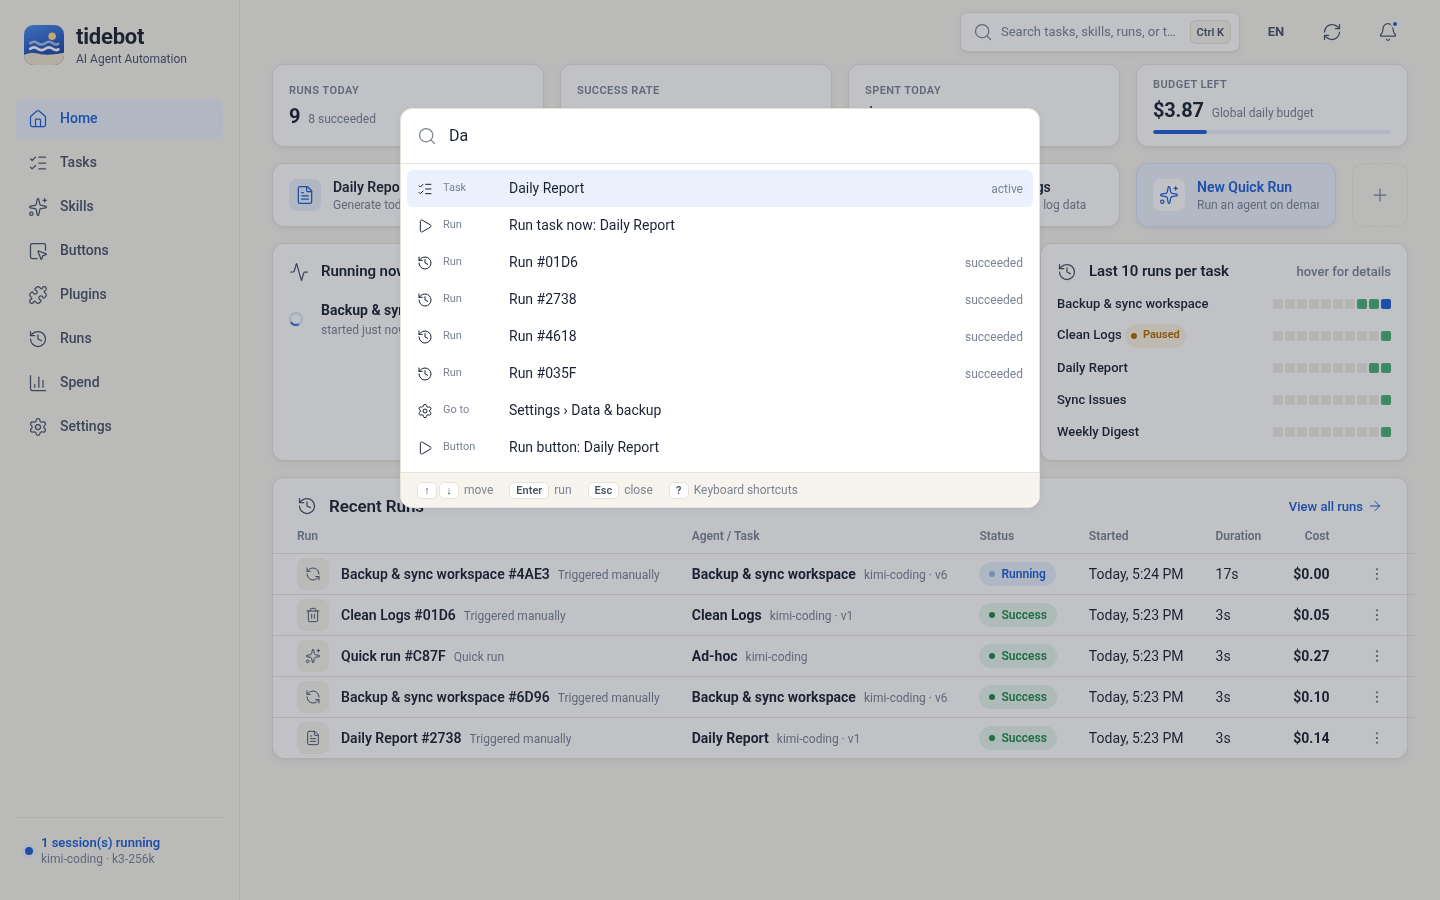
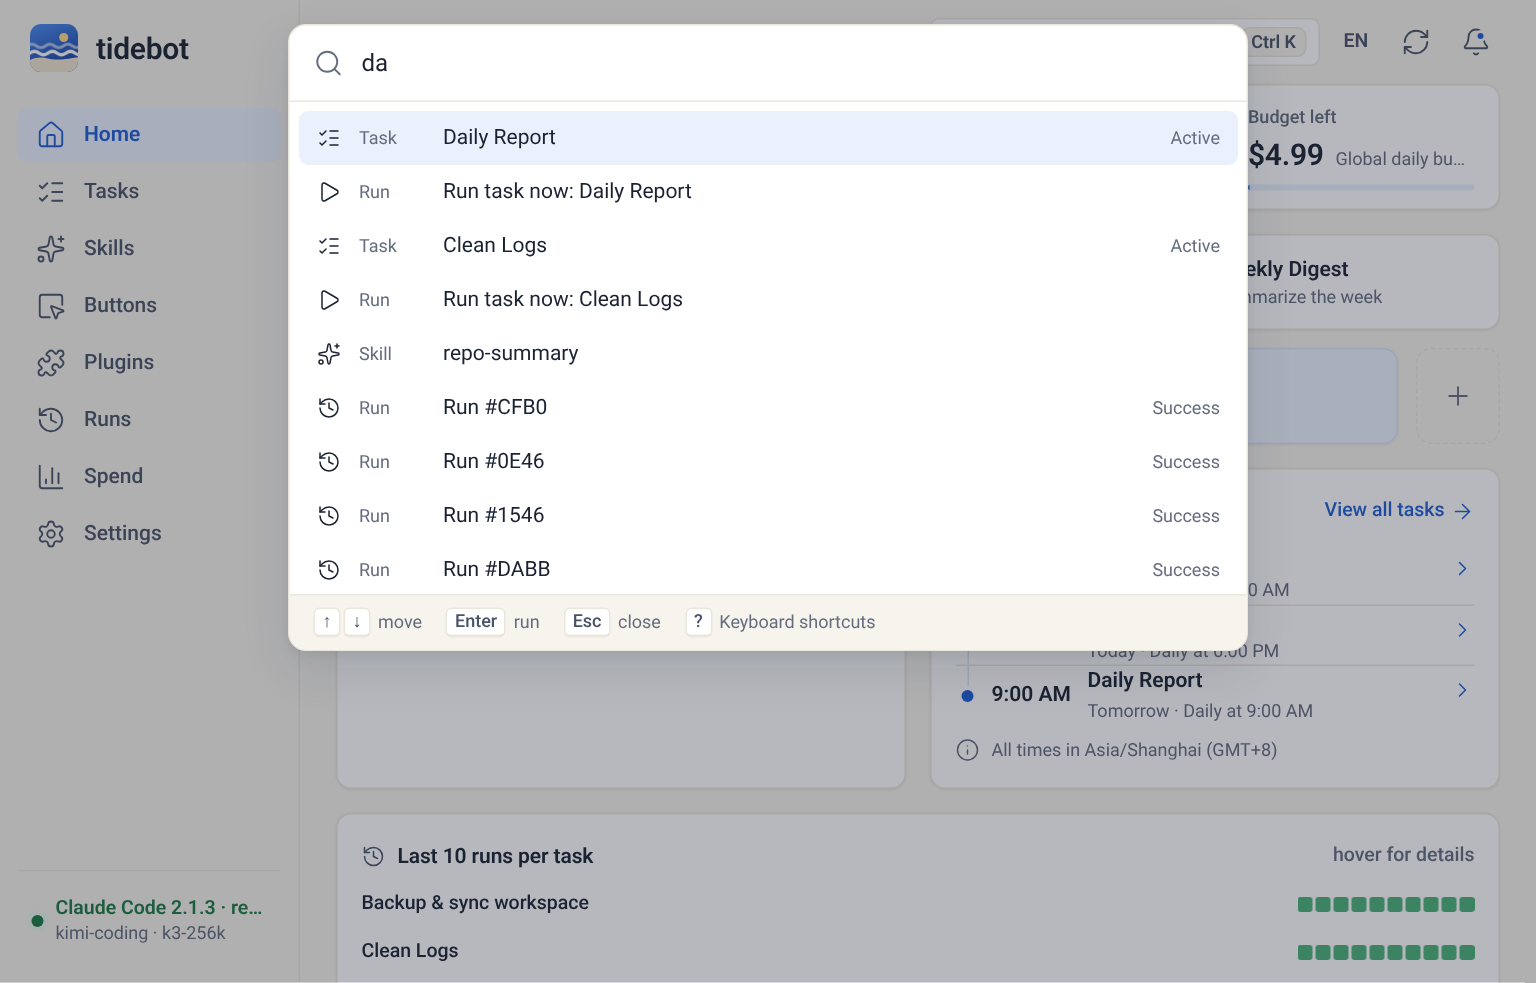
v0.1.7 发布说明；README 更新功能介绍、占用实测、安装与更新说明、架构图，按 1024×655 重拍截图

diff --git a/README.en.md b/README.en.md
@@ -14,13 +14,15 @@ So tidebot does a few simple things:
 - Broke something? Click an older version and you're back. History never goes away.
 - Daily spend has a cap. When it's hit, things stop. No burning a month of credits overnight.
 
-It's not a platform and doesn't want to become one. Single user, runs locally, one binary, about 13 MB of memory when idle.
+It's not a platform and doesn't want to become one. Single user, runs locally, one binary, about 30 MB of memory when idle.
 
 ![Home](docs/images/home.png)
 
 ## Screenshots
 
-Task detail. The middle column is a conversation with the task. What you say gets split into individual requirements, and nothing changes until you confirm. Items from the same message can be confirmed together as a single version; uncheck the ones you don't want.
+All screenshots are taken in a 1024×655 window, which is the size I actually keep it at on my Mac. The data comes from the demo script, not a real account.
+
+Task detail. The conversation with the task lives in the Requirements tab. What you say gets split into individual requirements, and nothing changes until you confirm. Items from the same message can be confirmed together as a single version; uncheck the ones you don't want.
 
 ![Task detail](docs/images/task-detail.png)
 
@@ -28,15 +30,27 @@ The version tree. Every confirmation is a new version. Rolling back just moves t
 
 <img src="docs/images/version-tree.png" width="320" alt="Version tree">
 
-Live run log, streamed over SSE. Secrets are masked before the log ever hits disk.
+Live run log. Output is pushed as soon as it's written, so new lines show up almost instantly. Copy, download and full screen sit in the title bar, a running run has a Stop button next to it, and a queued one can simply be taken out of the queue. Secrets are masked before the log ever hits disk.
 
 ![Live log](docs/images/run-live.png)
 
-Spend. The daily budget resets at midnight in your own timezone (not UTC). Going over pauses the task and records an event.
+A finished run can be rerun with one click. Quick runs can also be edited and rerun (press `e`), or saved as a scheduled task.
+
+![Run details](docs/images/run-detail.png)
+
+Quick run. Recent prompts show up as chips you can click, the provider you used last time is preselected, and Ctrl+Enter (⌘+Enter on a Mac) runs it. Unsent prompts are kept as a draft, so closing the dialog or reloading the page doesn't lose them.
+
+![Quick run](docs/images/quick-run.png)
+
+Spend. Every model is priced at its own rate; subscription plans count tokens, not money. The daily budget resets at midnight in your own timezone (not UTC). Going over pauses the task and records an event. The selected range can be exported as CSV.
 
 ![Spend](docs/images/spend.png)
 
-Skill versions and diffs. Compare any two versions. Rollback only moves the pointer here too, and you have 10 seconds to undo it. On the right is the optimizer: it only proposes candidates, and promoting one is always your click.
+The skill library. Every skill can be downloaded as a .zip and imported on another machine as is.
+
+![Skills](docs/images/skills.png)
+
+Skill versions and diffs. Compare any two versions. Rollback only moves the pointer here too, and you have 10 seconds to undo it. Any version can be downloaded on its own.
 
 ![Skill diff](docs/images/skill-diff.png)
 
@@ -44,7 +58,7 @@ Ctrl+K (⌘K on a Mac) opens a command palette. It searches tasks, skills and ru
 
 ![Command palette](docs/images/palette.png)
 
-Settings are split into General / Providers / Budgets / Security / Notifications / Data & backup / About, and every item has its own URL, e.g. `#/settings/security/2fa`. You can turn on two-factor sign-in there: scan, type one code, save the recovery codes. Nothing changes until a code checks out.
+Settings are split into General / Providers / Budgets / Price catalog / Security / Notifications / Network / Data & backup / About, and every item has its own URL, e.g. `#/settings/security/2fa`. You can turn on two-factor sign-in there: scan, type one code, save the recovery codes. Nothing changes until a code checks out.
 
 ![Settings](docs/images/settings.png)
 
@@ -60,21 +74,27 @@ Optional skill optimization (off by default). Three modes: off, suggest only, ca
 
 Buttons and plugins. A button is a one-click preset bound to a task or a prompt. The home page shows them in the order you set, by drag or Alt+arrow keys. When you install a plugin you tick its permissions one by one (high-risk ones start unticked), and you can revoke a single one later. Plugins with settings get a form; password-type fields can't be read back once saved.
 
-Cost caps. Daily limits per global / task / bucket (production, canary, optimization, assist). Checked before every run, with `--max-budget-usd` as a backstop during the run.
+Quick runs and reruns. If you don't want a task yet, hit "New quick run" on the home page, type a sentence and go. Not happy with the result? Rerun it as is, or edit the prompt and run again, and save it as a scheduled task once it's right. A running run can be stopped at any time, a queued one can be taken out of the queue, and the page shows where it is in line.
+
+Cost caps. Daily limits per global / task / bucket (production, canary, optimization, assist). Checked before every run, checked again when a queued run gets its slot (if the budget ran out while it waited, it's skipped), with `--max-budget-usd` as a backstop during the run. Usage is saved every 5 seconds while a run is going, so a crash doesn't lose the bill.
+
+Priced per model. Each run is priced from its actual token usage at that model's own rate, instead of applying Claude's prices to everything; subscription plans (like Kimi Coding Plan) just count tokens. The price list syncs itself weekly from a signed price catalog (source and last update live in Settings → Price catalog). The Spend page breaks things down by task, provider and model, and exports CSV.
+
+Data doesn't pile up. Settings → Data & backup shows how much space tidebot uses, lets you change how long logs and runs are kept, and previews what a clean-up would delete. You get a warning when the disk holding the data folder is running low.
 
 Any model provider. Anything with an Anthropic-compatible endpoint works. Built in: Anthropic, Kimi (including Coding Plan), DeepSeek, Zhipu GLM / Z.AI, Qwen DashScope, and the local magpie gateway. Keys are injected only into the `claude` child process environment. They never go into the database or the logs.
 
-Tiny footprint. Measured on a Linux x86_64 box (Go 1.24, `make build`):
+Small footprint. Measured on 2026-10-23 on a Linux x86_64 box (`go build -trimpath -ldflags="-s -w"`, i.e. `make build`; `scripts/measure.sh` reproduces it):
 
 | What | Number |
 |---|---|
-| `agentd` binary (stripped) | 11.5 MB |
-| `agentctl` binary | 3.1 MB |
-| Idle RSS, WebUI off | ~13 MB |
-| Idle RSS, WebUI on | ~13.3 MB |
-| After a few runs and a WebUI login | ~20 MB |
-| Peak during login (argon2id hash) | ~84 MB, released right after |
-| WebUI frontend (JS + CSS, gzipped) | ~25 KB, no CDN, no framework |
+| `agentd` binary (stripped) | 16.7 MB |
+| `agentctl` binary | 3.7 MB |
+| Idle RSS, WebUI off | ~27 MB |
+| Idle RSS, WebUI on | ~32 MB |
+| WebUI frontend (JS + CSS, gzipped) | ~128 KB, no CDN, no framework; cached by content hash, so a second visit downloads nothing |
+
+It has grown since the first versions (there's a lot more in it now). I'm still working on bringing memory back down.
 
 ## Architecture
 
@@ -90,18 +110,23 @@ flowchart LR
     Sched[Scheduler<br/>cron]
     Tasks[Tasks / amendments]
     Ver[Version store<br/>immutable versions + pointers]
-    Cost[Budget check<br/>resets at local midnight]
+    Cost[Budget check + per-model pricing<br/>resets at local midnight]
+    Queue[Queue / stop]
     Runner[Runner]
+    Upd[Update check<br/>price catalog sync]
     DB[(SQLite)]
   end
   Claude[claude -p<br/>stream-json]
   Provider[Model provider<br/>Anthropic / Kimi / DeepSeek / GLM / Qwen / magpie]
+  Rel[tidebot-releases<br/>signed latest.json / prices.json]
 
   CLI --> IPC
   Browser --> Web
   IPC --> Tasks
   Web --> Tasks
-  Sched --> Runner
+  Sched --> Queue
+  Web --> Queue
+  Queue --> Runner
   Tasks --> Ver
   Runner --> Cost
   Runner --> Claude
@@ -109,7 +134,9 @@ flowchart LR
   Tasks --> DB
   Ver --> DB
   Cost --> DB
-  Runner -- logs / SSE --> Web
+  Runner -- logs pushed on write / SSE --> Web
+  Upd -- daily / weekly --> Rel
+  Upd --> Cost
 ```
 
 ## Download
@@ -127,13 +154,13 @@ Prebuilt packages are on the [Releases](https://github.com/Zhengmingming1/tidebo
 Whichever you pick, you still need the `claude` CLI installed to actually run tasks.
 
 - **Server (agentd + agentctl)**: grab `tidebot-server_<version>_<os>_<arch>.tar.gz` (`.zip` on Windows) and put the two binaries on your PATH.
-  On Debian/Ubuntu there's a `.deb`: `sudo apt install ./tidebot-server_0.1.0_amd64.deb`, then `systemctl --user enable --now tidebot`.
+  On Debian/Ubuntu there's a `.deb`: `sudo apt install ./tidebot-server_0.1.7_amd64.deb`, then `systemctl --user enable --now tidebot`.
 - **Desktop app**: `.dmg` on macOS (universal, Intel and Apple silicon), `_setup.exe` on Windows (per-user, no admin),
   `.deb` or `.AppImage` on Linux (the AppImage doesn't bundle WebKitGTK; you need `libwebkit2gtk-4.1` on the system).
   Unsigned builds: on macOS right-click → Open the first time; Windows shows a SmartScreen prompt.
-- **Docker**: `docker pull ghcr.io/zhengmingming1/tidebot:0.1.0`. The image doesn't include the `claude` CLI; see [docs/release.md](docs/release.md) for adding it.
+- **Docker**: `docker pull ghcr.io/zhengmingming1/tidebot:0.1.7`. The image doesn't include the `claude` CLI; see [docs/release.md](docs/release.md) for adding it.
 
-Once installed, `agentctl call update.check` looks for a newer release and `update.apply` swaps the binaries in place after checking the sha256 (the old ones stay as `.prev`).
+Auto-update: the desktop app and the server check for a new version once a day (you can turn that off in Settings → About → Updates). By hand it's `agentctl update check` / `agentctl update apply`: the update manifest's signature and the package's sha256 are verified, the binaries are swapped in place (the old ones stay as `.prev`), and if the new version doesn't come up within 90 seconds it rolls back. Installs owned by a package manager, like `.deb` or Docker, only get a notification. If GitHub is slow or blocked where you are, Settings → Network has proxy and download mirror options.
 
 ## Quick start
 
@@ -198,7 +225,7 @@ webui_addr: 127.0.0.1:7420
 shutdown_grace: 5s           # how long quitting waits for running runs before stopping them
 ```
 
-Tasks, skills, buttons, plugins and triggers can all be created in the WebUI now. Drop a skill zip or folder on the import dialog; schedules come with presets (daily, weekdays, weekly) and show the next few runs in your timezone. The CLI below still works.
+Tasks, skills, buttons, plugins and triggers can all be created in the WebUI now. Drop a skill zip or folder on the import dialog; schedules come with presets (daily, weekdays, weekly) and show the next few runs in your timezone. When you create a task, the name and schedule get filled in from what you wrote and a daily budget is suggested; the add-provider form also understands a pasted Base URL or a block of env vars. If a dialog has unsaved changes, Esc or a click outside asks before throwing them away. The CLI below still works.
 
 ## CLI examples
 
@@ -224,8 +251,9 @@ agentctl skills pin --task <task_id> --skill <skill_id> --version <version_id>
 agentctl spend summary
 agentctl spend set-budget --scope global --max-usd 5
 
-# run once now
+# run once now; stop it (or drop it from the queue)
 agentctl tasks run --id <task_id>
+agentctl runs stop --id <run_id>
 ```
 
 CLI messages come in English and Chinese too. They follow your system locale, or set `TIDEBOT_LANG=en` / `TIDEBOT_LANG=zh-CN`.
@@ -236,6 +264,7 @@ CLI messages come in English and Chinese too. They follow your system locale, or
 Closing the window just hides it to the tray; scheduled tasks keep running. The tray menu, top to bottom: a problems section that only shows up when something is wrong (core not responding, today's budget used up, failures in the last hour), how many tasks are running, your first 5 buttons, "Pause all schedules", LAN access, open, quit.
 The icon has three states: idle, running, needs attention. If the core dies, the tray shows it within about 3 seconds.
 You get native notifications when a run finishes, fails, needs approval or hits the budget. The menu language follows the WebUI language setting, or the OS if you never set one.
+CSV exports, log and skill downloads go through the native Save dialog, with "Show in folder" afterwards; Settings → Data & backup can open the data folder directly. The browser tab icon gets a small badge, so you can see at a glance when something is running or just failed.
 
 ```bash
 scripts/build-desktop.sh linux        # needs Go 1.26, libgtk-3-dev, libwebkit2gtk-4.1-dev
@@ -251,11 +280,12 @@ This is a personal project maintained by one person, and it's early.
 
 Works today:
 
-- Scheduling, manual runs, concurrency limit, timeouts; retries with backoff, a breaker after 3 failures in a row, catch-up after downtime, overlap rules
+- Scheduling, manual runs, quick runs, concurrency limit, timeouts; stop a running run or drop a queued one; retries with backoff, a breaker after 3 failures in a row, catch-up after downtime, overlap rules; quitting lets running runs finish
+- Rerun, edit-and-rerun and save-as-task from the run page; duplicate a task; prompt drafts are saved automatically
 - Immutable task versions, rollback, version tree
 - Plain-language amendments: structured items, conflict detection, batch confirm; it offers to consolidate once items pile up
 - Skill import, versions, pinning, rollback; auto-optimization (off / suggest / canary), and a canary that does worse gets withdrawn automatically
-- Daily spend caps at global / task / bucket level, reset at local midnight
+- Daily spend caps at global / task / bucket level, reset at local midnight; per-model pricing with a weekly price catalog sync; spend export to CSV
 - Execution guard: a workspace per task, tool allow-lists, dangerous commands held until you confirm, external input wrapped as data
 - Plugins: separate processes speaking JSON-RPC over stdio, versioned installs, permissions approved item by item, a breaker after 3 crashes; they can add MCP tools and triggers
 - Triggers: webhook (token or HMAC), file changes, email and IM (via plugins); workflow pack import/export
@@ -265,7 +295,9 @@ Works today:
 - WebUI in English and Chinese, with a CI check that both dictionaries have the same keys; command palette and shortcuts; notifications grouped into failed / needs me / other
 - Optional two-factor sign-in (TOTP) with one-time recovery codes; after too many failed logins it tells you how long to wait
 - A desktop app (tray + window)
-- CI runs the tests on Linux, macOS and Windows; Windows uses a named pipe for local IPC
+- CI runs the tests on Linux, macOS and Windows on every push; Windows uses a named pipe for local IPC; gitleaks scans the full history in CI so keys don't get committed
+- Auto-update: signed manifest + sha256 check, automatic rollback on failure; system proxy and download mirrors
+- Storage overview, adjustable retention, clean-up preview, low disk space warning
 
 Not there yet:
 

diff --git a/docs/release-notes/v0.1.7.md b/docs/release-notes/v0.1.7.md
@@ -1,0 +1,58 @@
+# tidebot v0.1.7
+
+这一版攒得比较多，大部分是“用起来顺手”的改动。
+
+## 运行 / Runs
+- **运行可以停了**：跑着的点“停止”确认后结束，排队中的直接移出队列。排队的运行会显示排在第几个，命令行是 `agentctl runs stop --id <运行 ID>`。
+  Stop a running run, or drop a queued one; queued runs show their place in line.
+- **重跑和改后重跑**：运行详情页一键重跑；快速运行还能带出原来的提示词和服务商，改完再跑（`e` 键直达），也能直接存成定时任务。
+  Rerun from the run page; edit-and-rerun a quick run, or save it as a task.
+- **快速运行更顺手**：最近用过的提示词以小标签列出，记住上次的服务商，Ctrl+Enter（Mac 上 ⌘+Enter）直接跑。快速运行和新建任务的提示词会自动存草稿，关掉弹窗、刷新、重新登录后都还在。
+  Recent prompts, remembered provider, Ctrl/⌘+Enter, and prompt drafts that survive a reload.
+- **实时日志真的实时了**：改成写入即推送，新输出的延迟从大约 360ms 降到 17ms 左右。复制、下载、全屏挪到标题栏，筛选栏不再折行。
+  Live logs are pushed on write (~17 ms instead of ~360 ms); log actions moved to the title bar.
+- 退出时会等正在跑的任务收尾，然后记成“已停止”；崩溃后遗留的运行下次启动会被正确关掉。启动前一刻停止或退出也不会再被误记为失败。
+  Graceful quit, orphaned runs closed after a crash, and no more false "failed" when stopping right before start.
+
+## 花费 / Spend
+- **按模型算钱**：按实际 Token 用量、用各自模型的价格计费，不再一律按 Claude 官方价估算；订阅套餐只记 Token。价格表每周自动同步一次（签名的价格目录），来源和更新时间收在“设置 → 价格目录”里。
+  Runs are priced per model from token usage; the price catalog syncs weekly.
+- 运行中每 5 秒存一次用量，进程崩了也不丢账；运行详情实时显示已经花了多少。
+  Usage is saved every 5 s during a run; run details show spend live.
+- 排队的运行轮到它时再查一次预算：排队期间预算用完或任务被暂停就跳过，原因会写清楚。
+  Queued runs re-check the budget when they get a slot.
+- 花费图每天都有刻度和网格线，可以把选中时间段导出成 CSV（带 BOM，Excel 直接打开不乱码）。
+  Cleaner spend chart and CSV export.
+
+## 界面 / UI
+- 弹窗有没保存的修改时，Esc、点外面、关闭、返回前会先问一句；弹窗标题和按钮固定，1024×655 的窗口也放得下。
+  Dialogs ask before discarding unsaved changes and fit a 1024×655 window.
+- 技能能下载成 .zip（列表、详情、任意版本都行），拿到另一台电脑直接导入。
+  Download any skill version as a .zip.
+- 新建任务时根据提示词自动填名字和定时、建议每日预算；加服务商时粘贴 Base URL 或一段环境变量就能认出来；按钮表单会推荐图标；官方插件会用你已有的设置预填。
+  More forms fill themselves in.
+- 复制任务（生成一份暂停中的副本，可撤销）。浏览器标签页图标上有运行中 / 失败的小角标。
+  Duplicate a task; tab icon badges for running and failed runs.
+- 运行列表一行一条，ID 和计划细节收进悬停提示，页面更清爽；首页和运行列表只在有变化时才刷新。
+  Tidier runs table and pages; lists only re-render when something changed.
+- “设置 → 数据与备份”能看到占用空间、改保留天数、预览清理内容、压缩数据库；磁盘快满时会提醒。
+  Storage overview, retention settings, clean-up preview, low disk warning.
+- 桌面版导出和保存走系统的保存对话框，存完可以“在文件夹中显示”，也能直接打开数据文件夹。
+  Desktop: native Save dialog, "Show in folder", open the data folder.
+- WebUI 静态资源按内容哈希缓存并 gzip 压缩，再次打开不用重新下载约 640 KB。
+  Static assets are cached by content hash and gzipped.
+- 1024 宽的窗口里，版本树不再被放大，英文界面的日志筛选栏也不再折成两行。
+  Version tree and English log filter bar fixed at 1024 px wide.
+
+## 开源和安全 / Open source & security
+- 源码以 GNU AGPL-3.0-only 开源了：https://github.com/Zhengmingming1/tidebot 。安装包和自动更新照旧走 tidebot-releases。
+  The source is now public under AGPL-3.0-only.
+- 升级到 Go 1.26，并升级 x/crypto、x/net，修掉了标准库和依赖里的已知漏洞。
+  Go 1.26 plus x/crypto / x/net updates for known vulnerabilities.
+- 发布流程加固：签名密钥只在受保护的环境里可用，第三方 Action 全部钉到提交哈希；CI 每次提交都在 Linux / macOS / Windows 上跑，并用 gitleaks 扫描完整历史。自己从源码编译的版本只提示新版，不会被自动替换成官方包。
+  Hardened release pipeline, 3-OS CI on every push, gitleaks; self-built copies are notify-only.
+
+0.1.6 会自动收到这次更新。更早的版本如果一直没有提示，到 https://github.com/Zhengmingming1/tidebot-releases/releases/latest 手动下载一次就好。
+If you're on 0.1.6 it updates itself; older versions that never show the update can grab it from the releases page once.
+
+Thanks to Anthropic for Claude Code — tidebot just drives it.

diff --git a/docs/release.md b/docs/release.md
@@ -106,7 +106,7 @@ Plain GETs only, honours `HTTPS_PROXY`, nothing else is sent.
 
 ```bash
 scripts/package-server.sh 0.1.0 dist          # all server archives + .deb (needs dpkg-deb)
-scripts/package-desktop-linux.sh 0.1.0 dist   # needs Go 1.25, libgtk-3-dev, libwebkit2gtk-4.1-dev, file
+scripts/package-desktop-linux.sh 0.1.0 dist   # needs Go 1.26, libgtk-3-dev, libwebkit2gtk-4.1-dev, file
 scripts/package-desktop-macos.sh 0.1.0 dist   # macOS only
 ```
 
